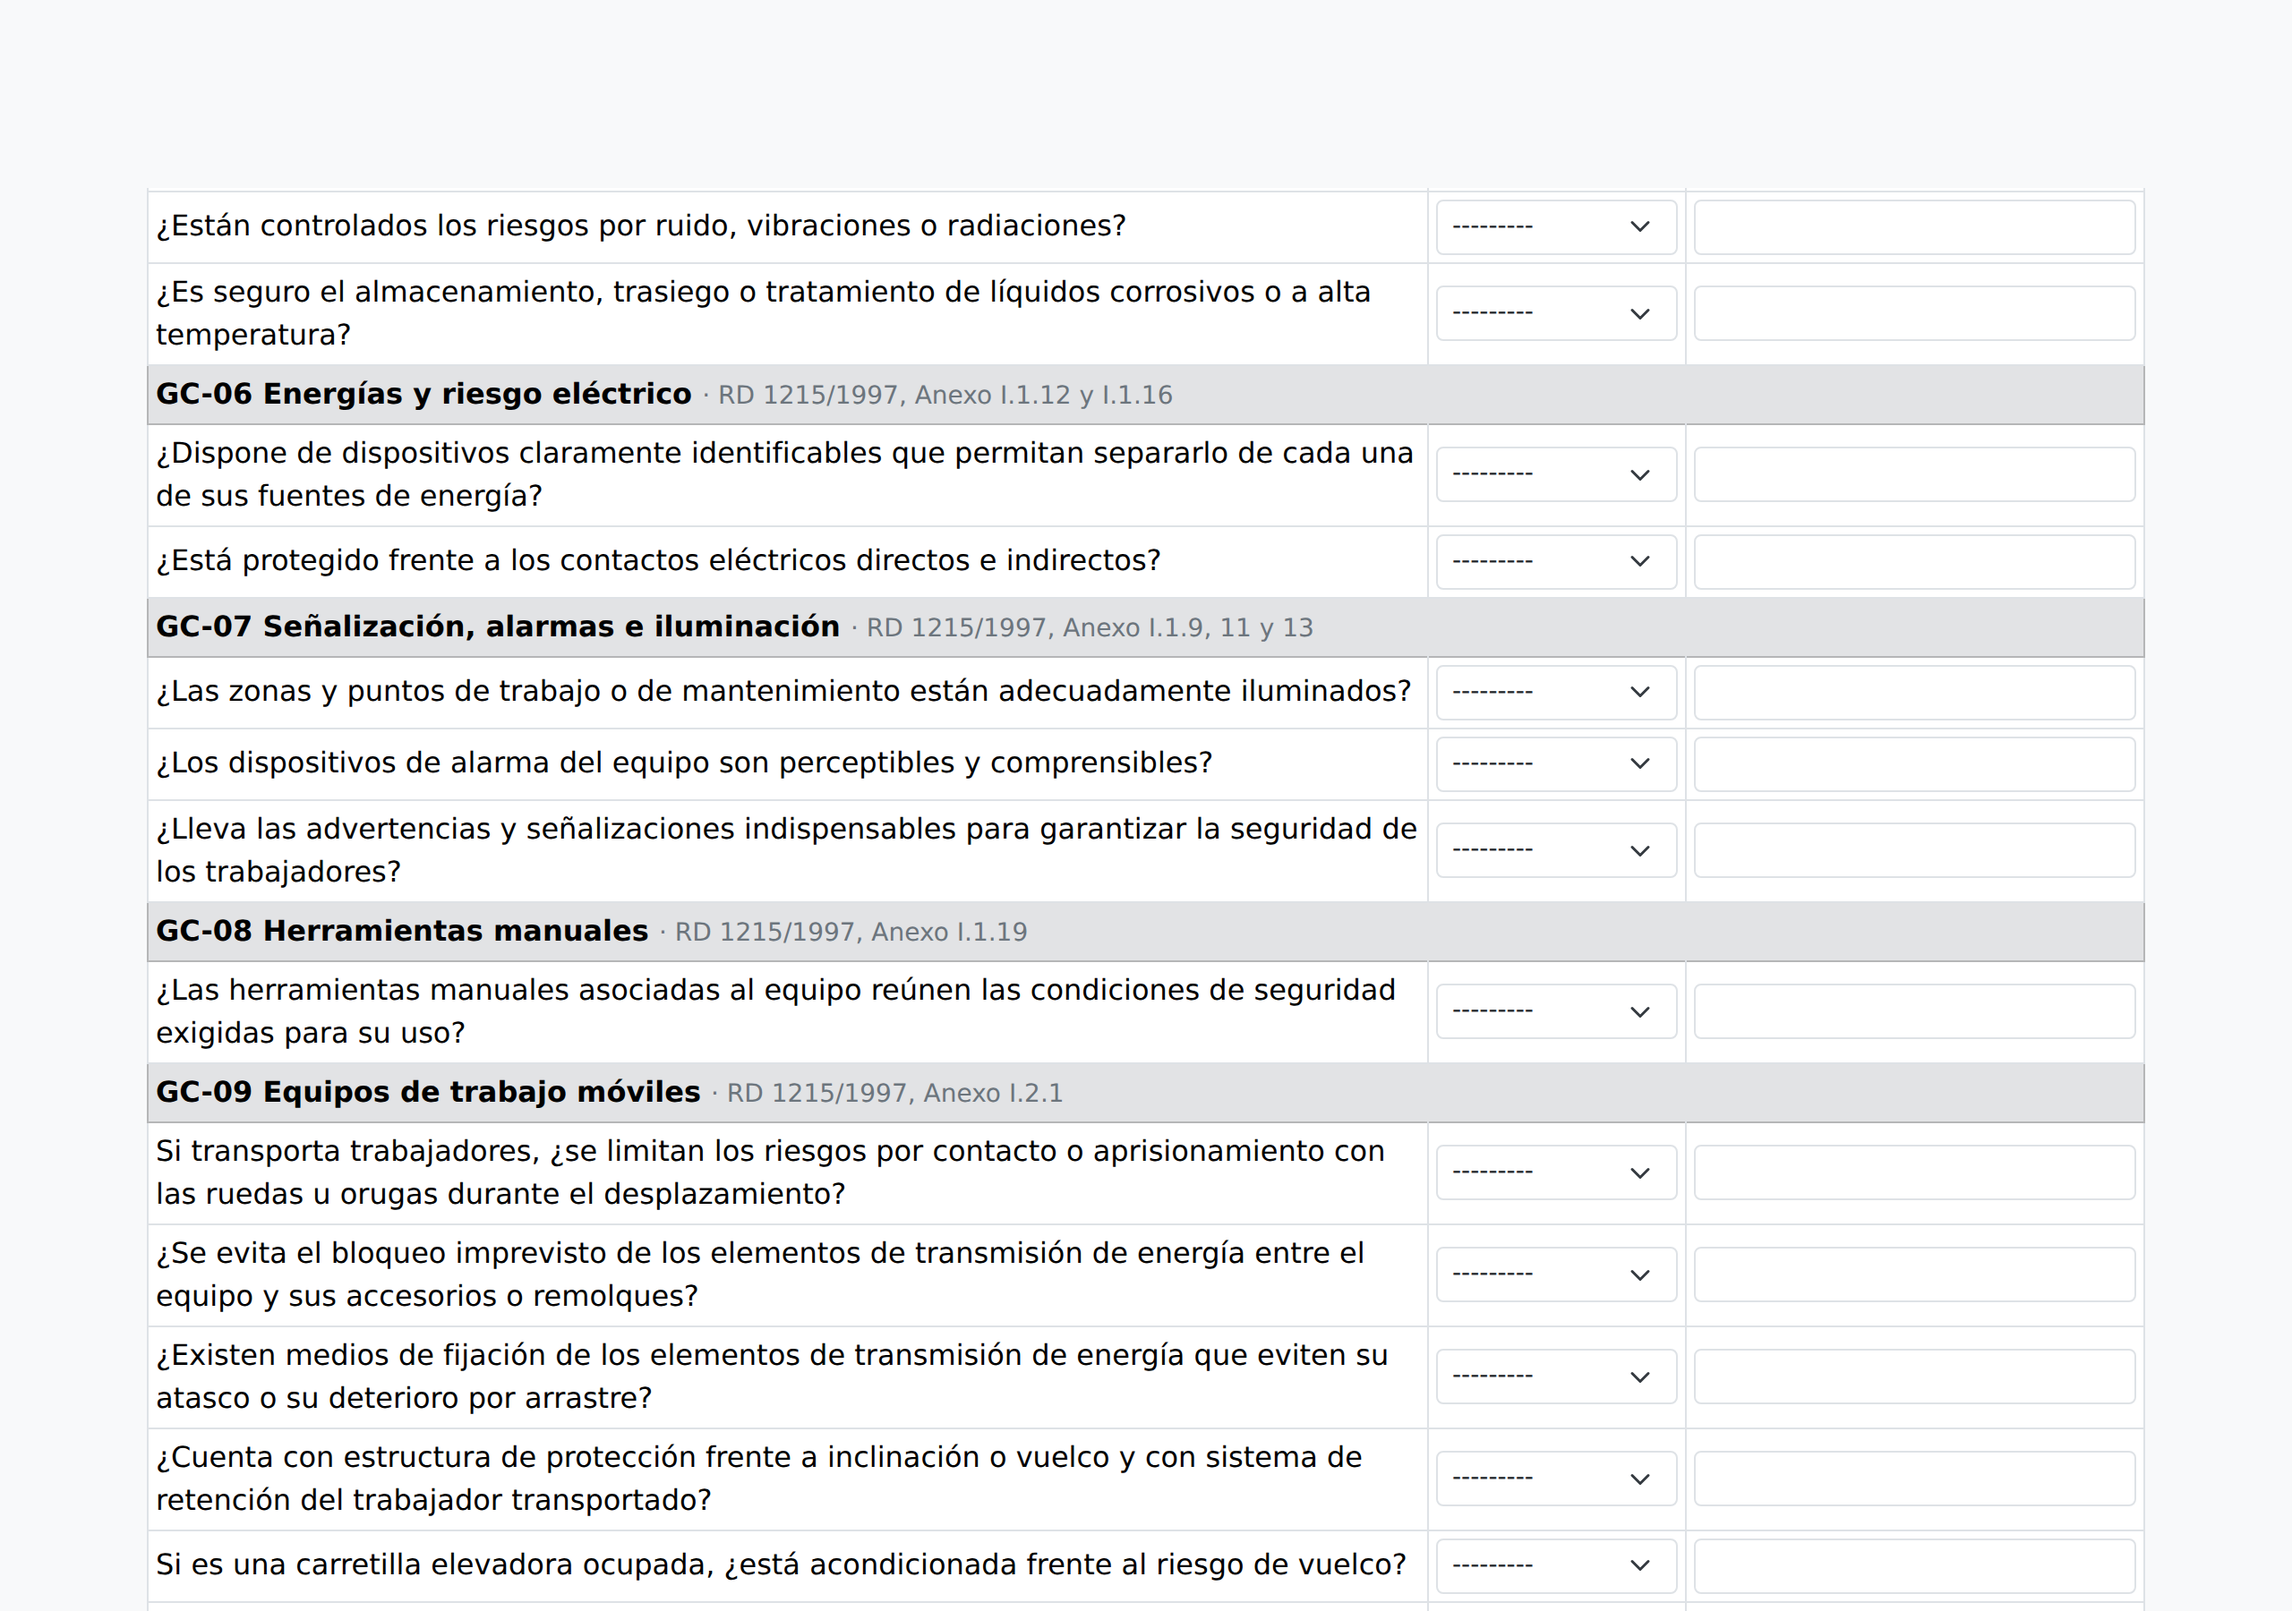
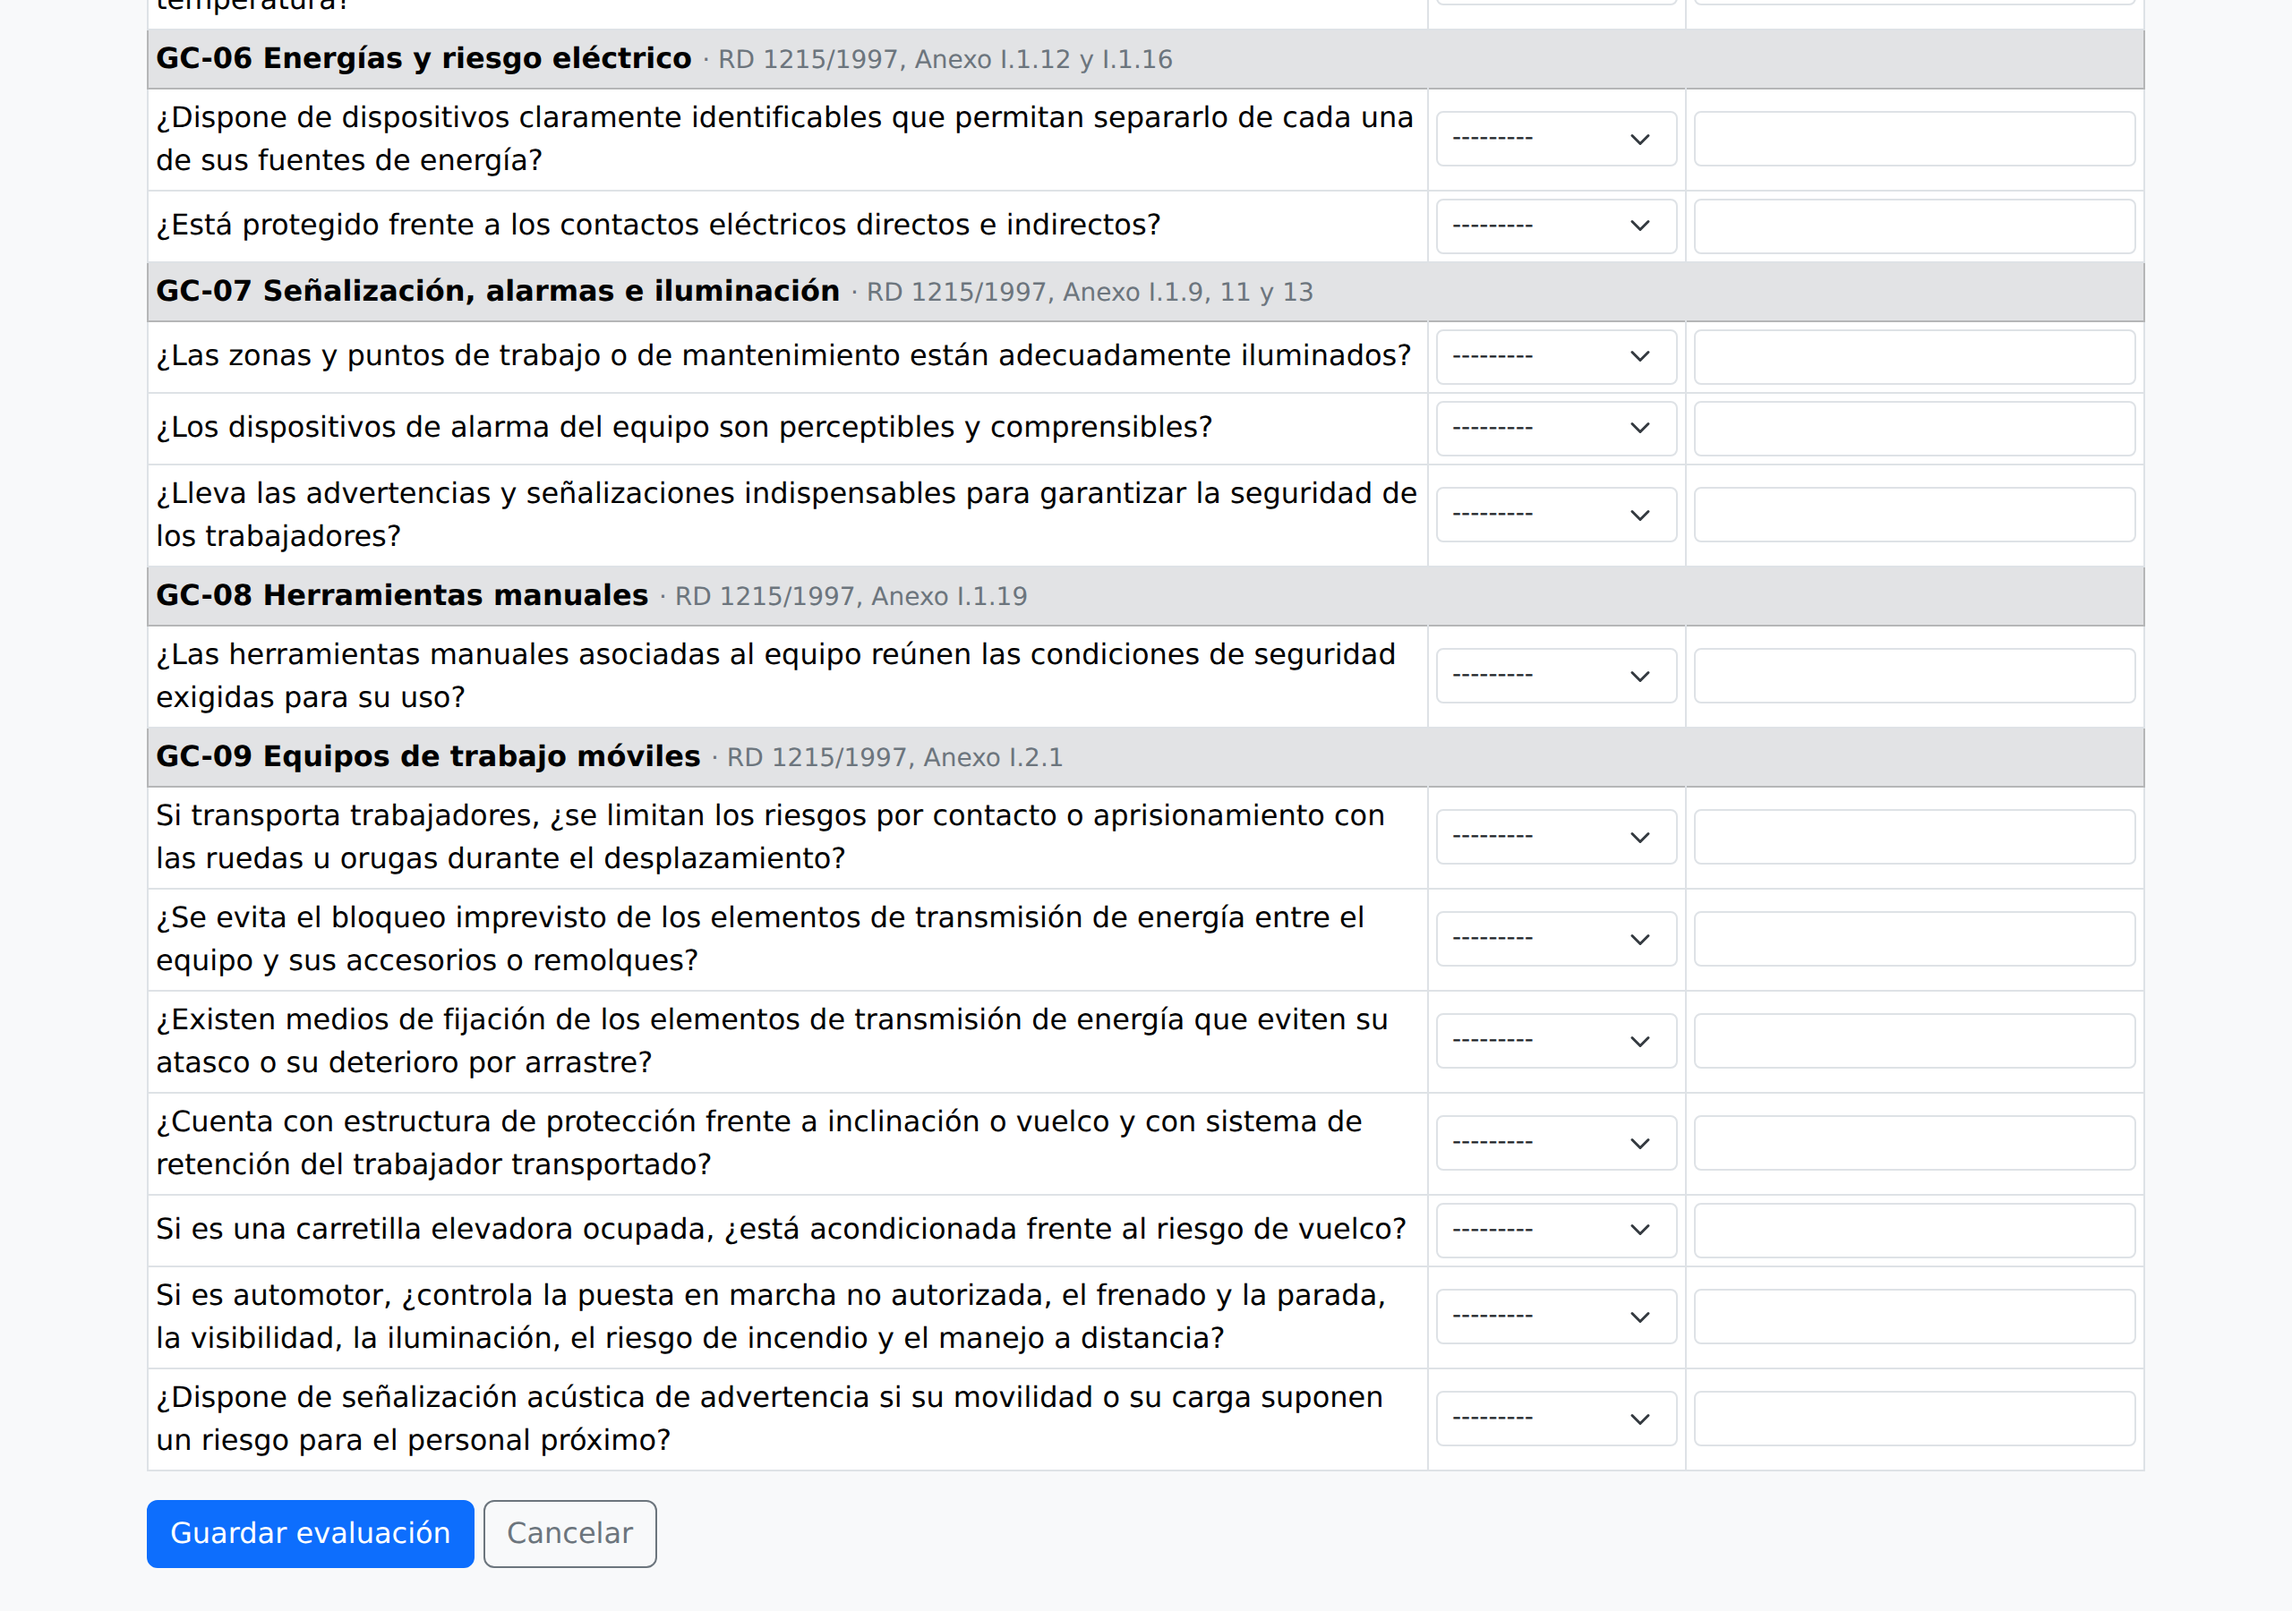
Toma cada captura de la pantalla que describe su pie
Cinco capturas no enseñaban lo que el capítulo del prototipo dice de ellas:

- La de los tipos sin confirmar se tomaba de la pantalla de tipos y no de la
  ficha, que es donde están el indicador «Sin confirmar» y el enlace.
- La de la ficha completa tras iniciar sesión (RF-10) se tomaba de la ficha
  de gestión, con botones de edición, y no de la consulta en campo con
  sesión, que es la pantalla de solo lectura que el requisito describe.
- Las tres de la cola del cuestionario cortaban antes del último grupo de
  criterios y del botón de guardar: el desplazamiento al final se hacía
  antes de que la página terminara de ajustarse.

Además, la captura en móvil se tomaba después de la importación de
rechazos, que mete en la base de datos las filas válidas del fichero de
ejemplo, y enseñaba un equipo que no es del caso de estudio. Ahora se toma
antes.

diff --git a/herramientas/generar_capturas.py b/herramientas/generar_capturas.py
@@ -113,8 +113,13 @@ def recorte(pag, nombre, ruta=None, al_final=False):
     if ruta is not None:
         pag.goto(BASE + ruta, wait_until='networkidle')
     if al_final:
+        # Se baja hasta el botón de enviar y no hasta scrollHeight: la página
+        # sigue reajustándose tras networkidle y un solo scrollTo se quedaba
+        # corto, dejando fuera el último grupo de criterios y el botón.
+        pag.locator(ENVIAR).scroll_into_view_if_needed()
+        pag.wait_for_timeout(500)
         pag.evaluate('window.scrollTo(0, document.documentElement.scrollHeight)')
-        pag.wait_for_timeout(250)
+        pag.wait_for_timeout(500)
     _guardar(pag, nombre)
 
 
@@ -171,10 +176,15 @@ def main():
         completa(pag, 'rf01-alta-formulario', '/equipos/alta/')
         completa(pag, 'rf01-editar-1', f'/equipos/{ids["EQ-004"]}/editar/')
         completa(pag, 'rf01-editar-2', f'/equipos/{ids["EQ-001"]}/editar/')
-        completa(pag, 'rf04-tipos', f'/equipos/{ids["EQ-005"]}/tipos/')
+        # La ficha, no la pantalla de tipos: lo que se quiere enseñar es el
+        # indicador «Sin confirmar» y el enlace «Cambiar» que llevan a ella.
+        completa(pag, 'rf04-tipos', f'/equipos/{ids["EQ-005"]}/')
         completa(pag, 'rf03-desfasada', f'/equipos/{ids["EQ-003"]}/')
         completa(pag, 'rf03-historico', f'/equipos/{ids["EQ-007"]}/')
-        completa(pag, 'rf10-ficha-completa', f'/equipos/{ids["EQ-008"]}/')
+        # La segunda capa del QR (RF-10) es la consulta en campo CON sesión,
+        # no la ficha de gestión: es la misma dirección que la consulta
+        # pública, vista ahora con la sesión abierta.
+        completa(pag, 'rf10-ficha-completa', f'/q/{token}/')
         completa(pag, 'rf06-medidas', '/medidas/')
         completa(pag, 'rf06-medidas-todas', '/medidas/?estado=todas')
         completa(pag, 'rf06-medida-nueva', f'/evaluaciones/{ev_noconforme}/medidas/nueva/')
@@ -203,6 +213,22 @@ def main():
         recorte(pag, 'rf04-resultado-noconforme', f'/evaluaciones/{ev_noconforme}/')
         recorte(pag, 'rf07-evaluacion-en-duda', f'/evaluaciones/{ev_en_duda}/')
 
+        # --- Móvil: ancho distinto A PROPÓSITO, es otro dispositivo --------
+        # Demuestra el RNF-01: por debajo de 768 px se oculta la columna de
+        # tipos y la barra de navegación se parte en varias líneas.
+        # Va ANTES de la importación de rechazos: esa importación mete en la
+        # base de datos las filas válidas del fichero de ejemplo y, hasta que
+        # se limpian al final, la portada enseñaría un equipo que no es del
+        # caso de estudio.
+        mov = nav.new_context(
+            viewport=MOVIL, device_scale_factor=3, is_mobile=True, has_touch=True,
+        )
+        pag_movil = mov.new_page()
+        entrar(pag_movil)
+        pag_movil.goto(f'{BASE}/', wait_until='networkidle')
+        _guardar(pag_movil, 'rnf01-movil-portada')
+        mov.close()
+
         # La de rechazos va la última: importa de verdad, y las filas válidas
         # del fichero de ejemplo entran en la base de datos. Se limpian abajo.
         pag.set_viewport_size({'width': ANCHO, 'height': 200})
@@ -215,17 +241,6 @@ def main():
         pag.wait_for_load_state('networkidle')
         completa(pag, 'rf02-importacion-rechazos')
         ctx.close()
-
-        # --- Móvil: ancho distinto A PROPÓSITO, es otro dispositivo --------
-        # Demuestra el RNF-01: por debajo de 768 px se oculta la columna de
-        # tipos y la barra de navegación se parte en varias líneas.
-        mov = nav.new_context(
-            viewport=MOVIL, device_scale_factor=3, is_mobile=True, has_touch=True,
-        )
-        pag = mov.new_page()
-        entrar(pag)
-        pag.goto(f'{BASE}/', wait_until='networkidle')
-        _guardar(pag, 'rnf01-movil-portada')
         nav.close()
 
     sobran = Equipo.objects.exclude(codigo__in=codigos_antes)
